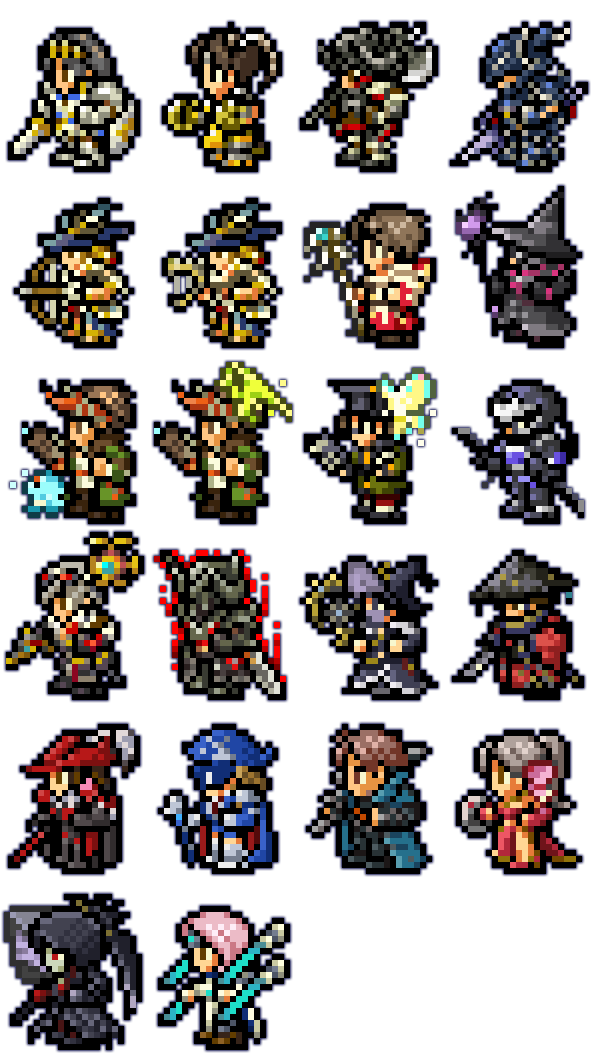
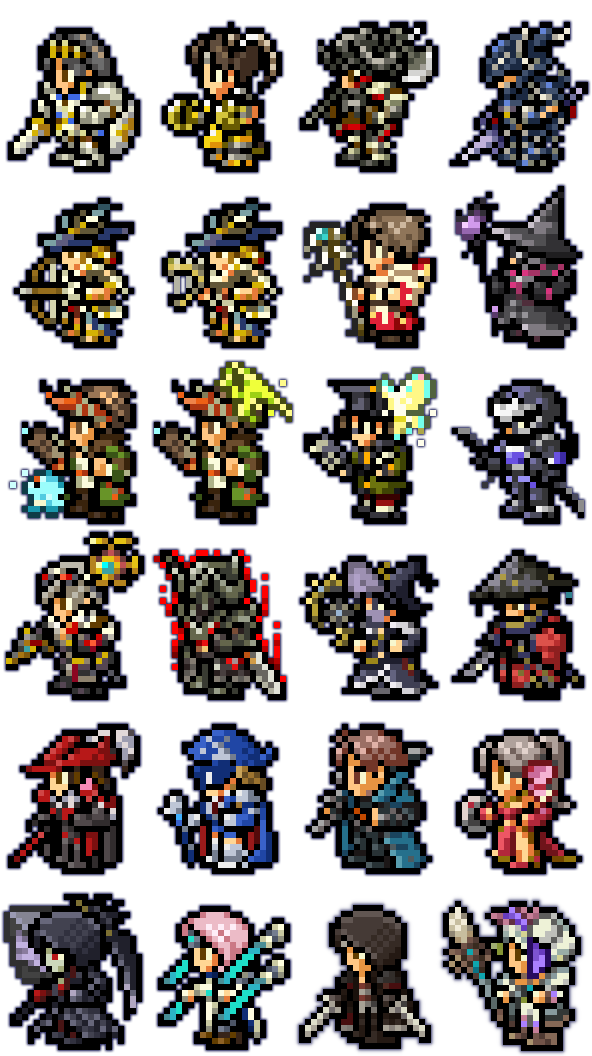
viper/picto support

Changed region(s): [[0.7297, 0.8438, 1.0, 1.0], [0.4865, 0.8438, 0.7297, 1.0]]

diff --git a/DeepDungeonTracker/Data/ClassJobIds.cs b/DeepDungeonTracker/Data/ClassJobIds.cs
@@ -28,7 +28,9 @@ public static class ClassJobIds
             {37, (18, "GNB")},
             {38, (19, "DNC")},
             {39, (20, "RPR")},
-            {40, (21, "SGE")}
+            {40, (21, "SGE")},
+            {41, (22, "VPR")},
+            {42, (23, "PCT")}
         };
     }
 }
